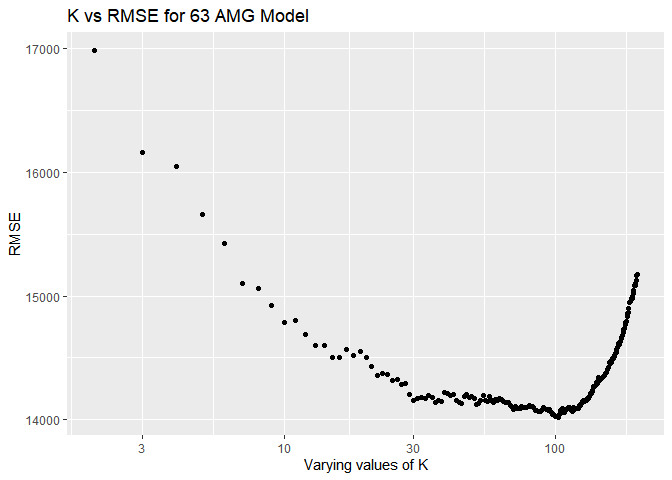
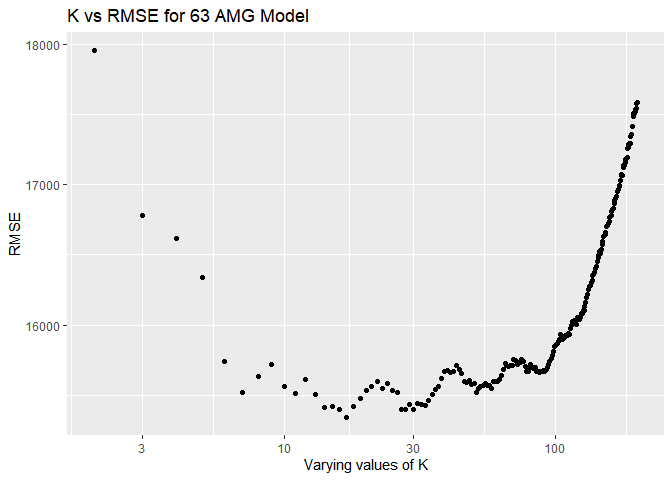
Add files via upload

diff --git a/PSV1.md b/PSV1.md
@@ -11,6 +11,8 @@
     ## Bounding box:  xmin: -179.1743 ymin: 17.91377 xmax: 179.7739 ymax: 71.35256
     ## Geodetic CRS:  NAD83
 
+![](PSV1_files/figure-markdown_strict/unnamed-chunk-1-1.png)
+
 ##Q2\] Billboard Top 100
 
     ## `summarise()` has grouped output by 'song'. You can override using the `.groups` argument.
@@ -68,11 +70,11 @@
 ![](PSV1_files/figure-markdown_strict/unnamed-chunk-4-1.png)
 
     ##            k        e
-    ## result.26 27 8085.804
+    ## result.13 14 9616.358
 
 ![](PSV1_files/figure-markdown_strict/unnamed-chunk-4-2.png)![](PSV1_files/figure-markdown_strict/unnamed-chunk-4-3.png)
 
-    ##              k        e
-    ## result.101 102 14020.15
+    ##            k        e
+    ## result.16 17 15346.42
 
 ![](PSV1_files/figure-markdown_strict/unnamed-chunk-4-4.png)
